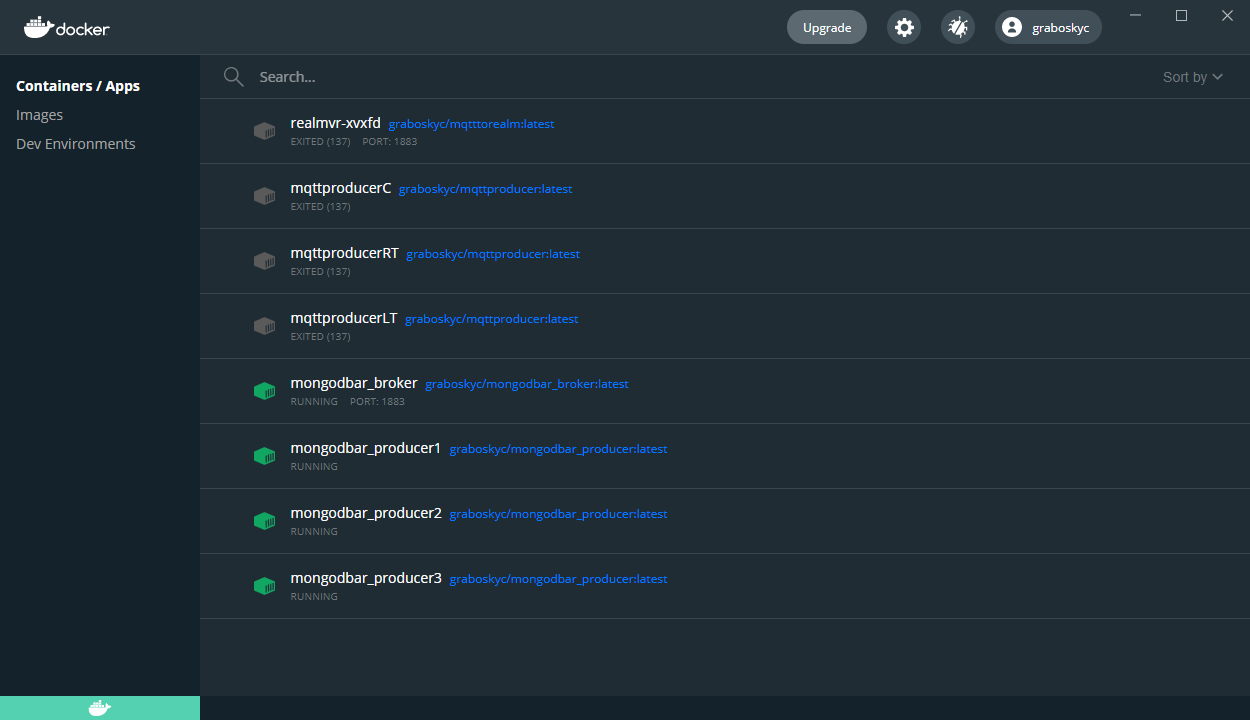
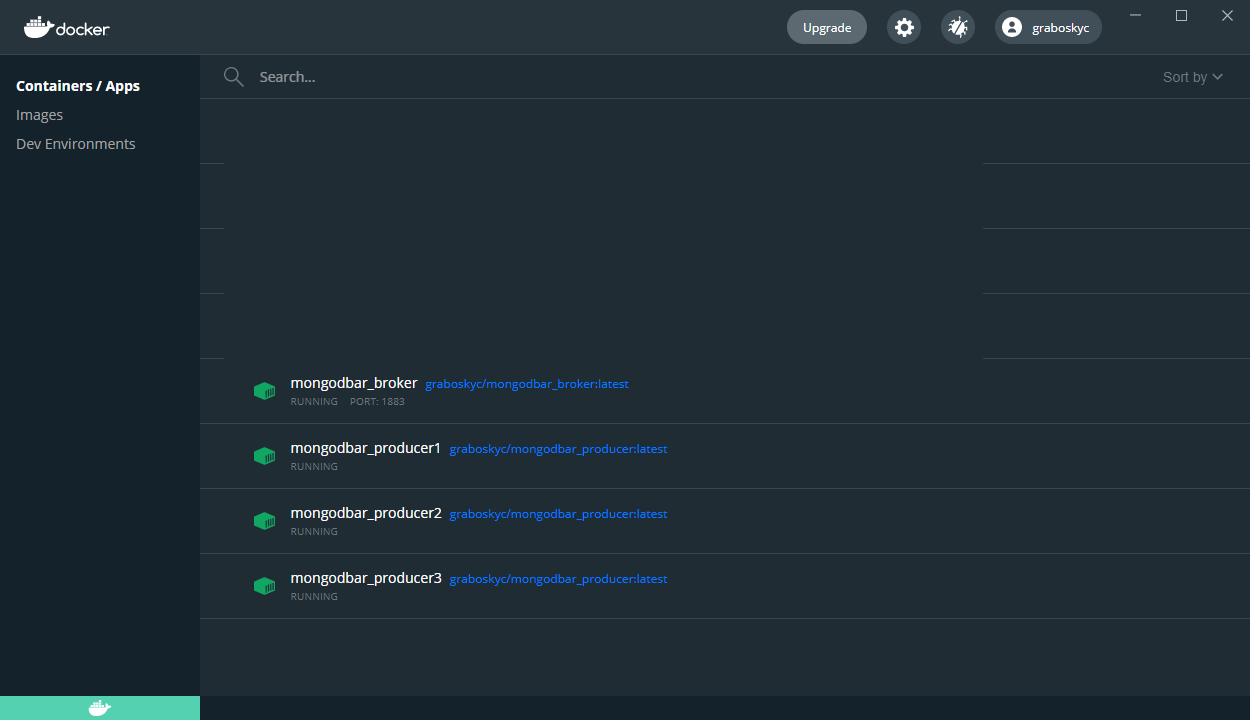
screenshots

diff --git a/README.md b/README.md
@@ -65,6 +65,10 @@ To handle this, Team 4 has built the "MongoDBar" application. It allows for IOT-
 * Confirm output logs that it is writing readings every ~30 seconds
 * You should see 4 containers running representing a MQTT broker and 3 simulated IOT liquor pouring sensors
 
+![](../Screenshots/01.png)
+![](../Screenshots/02.png)
+![](../Screenshots/03.png)
+
 ## Website
 * Ensure hosting is enabled
 * Change the App ID in `sdjgsdjgkldsgkljg`

diff --git a/Assets/DataModel.md b/Assets/DataModel.md
@@ -98,3 +98,6 @@ public class BottleReadingTemp : RealmObject
 
 ## Data flow
 ![](UML.png)
+
+## Screenshots
+![](../Screenshots/04.png)
